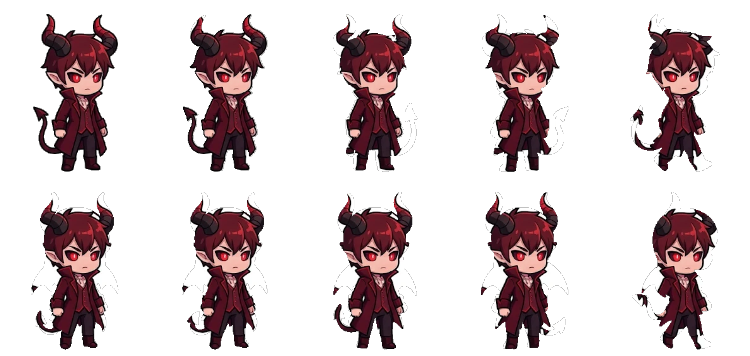
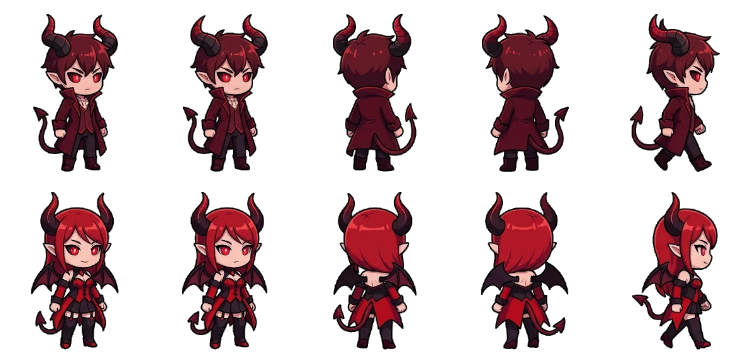
V37: sửa Quỷ Vương & Tiểu Quỷ lem màu xanh, nâng uy nghi Quỷ Vương, dọn giao diện Khu 6
- tools/bake-hell.cjs: makeLayer() đọc màu nguồn thiếu offset (x0,y0) nên MỌI ô
  bị tô bằng màu của ô (0,0) — Quỷ Vương và Tiểu Quỷ ra bóng xanh lơ của Ma Trơi,
  còn nền trắng của ô gốc biến thành thân trắng viền dày. Bake lại
  assets/img/baked/hell_npcs.png và hell_demon_sheet.png, giờ giữ đúng RGB gốc.
- js/hell.js: Quỷ Vương cao 92px (~1,7 lần nhân vật) đứng trên bệ đá hai bậc kèm
  thảm đỏ viền vàng tua rua ở x=2250; bảng tên "👹 Quỷ Vương Trần Nhân" vẽ SAU
  sprite, viền chữ chỉ 1.3px (để 3px là nét chữ 13px bị nuốt sạch, đo ra 0 pixel sáng).
- js/hell.js: vào Khu 6 tự ẩn thanh nhiệm vụ trái, dãy menu trên, minimap phải và
  chặn toast "Chạy nhanh (giữ Shift)"; cụm Joystick + nút Tương tác cảm ứng vẫn giữ
  cho Mobile, rời Khu 6 là khôi phục nguyên trạng. Nút thoát thành pill
  "✕ Rời Địa Ngục" bề rộng đo theo chữ, sát góc trên phải, tự tụt xuống dưới khi
  banner khẩn cấp chiếm dải trên. Tiêu đề "🔥 KHU 6" mờ dần sau 3 giây.
- service-worker.js: CACHE_NAME it-game-v1.83.

diff --git a/js/hell.js b/js/hell.js
@@ -65,6 +65,9 @@ const HL_IMPS = [{ lo: 500, hi: 950, x: 700, y: 548, dir: 1, spd: .85, flee: 0, 
                  { lo: 1350, hi: 1800, x: 1560, y: 548, dir: 1, spd: .85, flee: 0, loot: 2 }];
 
 const HL_FADE = 900;
+/* Bảng tên khu chỉ hiện 3 giây đầu rồi tự mờ (V37) — vào cảnh là để ĐỌC tên,
+   sau đó màn hình phải trả lại cho cảnh. */
+const HL_TITLE_HOLD = 3, HL_TITLE_FADE = .9;
 /* Chống kẹt tư thế (đúng bộ số Khu 5 V34): 0.4s hồi sau khi đứng dậy để cú
    bấm đó không rơi lại vào tư thế, 0.25s khoá vào/trả để ESC không bị nuốt. */
 const HL_EXIT_CD = .4, HL_ENTER_CD = .25, HL_JOY_R = 10;
@@ -85,8 +88,8 @@ const HL_JUDGE = [
 
 /* ---------- 2. TRẠNG THÁI ---------- */
 let HL_CUT = null;
-const HL_ST = { st: '', kx: 0, ky: 0, t0: 0, exitCd: 0, enterCd: 0,
-                aura: 0, last: 0 };
+const HL_ST = { st: '', kx: 0, ky: 0, t0: 0, t0scene: 0, exitCd: 0, enterCd: 0,
+                aura: 0, last: 0, hud: 0 };
 const HL_EMB = [];                           // tàn lửa dưới chân + tia lửa vạc
 
 /* Cờ hoàn thành là boolean của file save → PHẢI khai ở STAGE_IDS, nếu không
@@ -324,6 +327,42 @@ function hlRiftDraw(g, x, feetY, hgt, t, label) {
   g.restore();
 }
 
+/* Bệ đá + thảm đỏ của Quỷ Vương: vẽ TRƯỚC sprite trong cùng khoá sâu nên
+   vua đứng CHẾM TRÊN bệ, không phải nổi trên nền hang. Thảm loang về phía
+   người chơi (hình thang perspective) để lối đi cuối đại lộ ra "ngai". */
+function hlDaisDraw(g, x, feetY, t) {
+  g.save();
+  /* thảm đỏ: mép trên sát chân bệ, loang rộng xuống sàn trước mặt */
+  const cw0 = 74, cw1 = 128, cl = 96;
+  const q = g.createLinearGradient(0, feetY - 6, 0, feetY + cl);
+  q.addColorStop(0, 'rgba(150,22,28,.95)'); q.addColorStop(.55, 'rgba(112,14,20,.9)');
+  q.addColorStop(1, 'rgba(74,8,14,.72)');
+  g.beginPath();
+  g.moveTo(x - cw0, feetY - 4); g.lineTo(x + cw0, feetY - 4);
+  g.lineTo(x + cw1, feetY + cl); g.lineTo(x - cw1, feetY + cl);
+  g.closePath(); g.fillStyle = q; g.fill();
+  /* viền vàng + tua rua */
+  g.strokeStyle = 'rgba(226,168,52,.85)'; g.lineWidth = 2.2; g.stroke();
+  g.fillStyle = 'rgba(240,196,86,.55)';
+  for (let i = -5; i <= 5; i++) {
+    const u = (i + 5) / 10, ex = x - cw1 + (cw1 * 2) * u;
+    g.fillRect(ex - 2, feetY + cl, 4, 5);
+  }
+  /* hai bậc đá: bậc dưới rộng, bậc trên sát chân vua */
+  const st = [[112, 20], [86, 16]];
+  for (let i = 0; i < st.length; i++) {
+    const rw = st[i][0], hh = st[i][1], yy = feetY - 2 - (st.length - 1 - i) * 13;
+    const s = g.createLinearGradient(0, yy - hh, 0, yy + 6);
+    s.addColorStop(0, '#4a3038'); s.addColorStop(.5, '#2c1a20'); s.addColorStop(1, '#180d12');
+    g.fillStyle = s;
+    g.beginPath(); g.ellipse(x, yy, rw, hh * .5, 0, 0, 6.2832); g.fill();
+    /* gờ lửa hắt lên từ miệng hang */
+    g.strokeStyle = 'rgba(255,140,60,' + (.22 + .06 * Math.sin(t * 1.8 + i)).toFixed(3) + ')';
+    g.lineWidth = 1.8; g.stroke();
+  }
+  g.restore();
+}
+
 /* ---------- 9. TICK ---------- */
 function hlGhostTick(dt, now) {
   const k = Math.min(3, dt * 60), t = now / 1000;
@@ -396,10 +435,10 @@ function hlBowEnd() {
     S.missionsDone.hell_king = true;
     if (typeof addXP === 'function') addXP(30);
     if (typeof showBanner === 'function')
-      showBanner('QUỶ VƯƠNG TRẦN NHÂN PHÁN XÉT', '「' + line + '」',
+      showBanner('QUỶ VƯƠNG TRẦN NHÂN PHÁN XÉT', '“' + line + '”',
         '🩸 Buff Huyết Quỷ Vương · +30 EXP', 'red');
   } else if (typeof showBanner === 'function') {
-    showBanner('QUỶ VƯƠNG TRẦN NHÂN PHÁN XÉT', '「' + line + '」',
+    showBanner('QUỶ VƯƠNG TRẦN NHÂN PHÁN XÉT', '“' + line + '”',
       'Phần thưởng đã nhận rồi — lần sau xuống đây chơi', 'red');
   }
   if (typeof syncHUD === 'function') { try { syncHUD(); } catch (e) {} }
@@ -477,12 +516,57 @@ function hlCutDraw(now) {
   ctx.restore();
 }
 
+/* ---------- 11b. DỌN MÀN HÌNH TRONG KHU 6 ---------- */
+/* Bốn khối bị gọi tên: thanh nhiệm vụ bên trái, dãy menu trên cùng, minimap
+   bên phải (🗺 wm-badge là CON của nó nên biến mất theo), và toast "Chạy
+   nhanh (giữ Shift)" do ui.js/game.js bắn ra mỗi lần đổi tốc độ.
+   KHÔNG đụng vào joystick + nút Tương tác cảm ứng — Mobile vẫn phải đi được
+   và vẫn phải bấm được [E]. Ẩn bằng display nên mọi tham chiếu DOM khác
+   (syncHUD ghi chữ, dock blink) vẫn chạy hợp lệ, chỉ là không nhìn thấy. */
+const HL_HUD = ['quest-panel', 'dock-tr', 'minimap-box'];
+function hlHud(hide) {
+  for (let i = 0; i < HL_HUD.length; i++) {
+    const el = document.getElementById(HL_HUD[i]);
+    if (!el) continue;
+    if (hide) {
+      if (el._hlDisp === undefined) el._hlDisp = el.style.display || '';
+      if (el.style.display !== 'none') el.style.display = 'none';
+    } else if (el._hlDisp !== undefined) {
+      el.style.display = el._hlDisp;
+      el._hlDisp = undefined;
+    }
+  }
+  HL_ST.hud = hide ? 1 : 0;
+}
+/* Đồng bộ THEO CẢNH mỗi frame: vào Khu 6 bằng cổng, F5 ngay trong Khu 6, hay
+   rời đi bằng ✕/ESC/[E] đều tự ẩn — tự hiện, không cần sửa file nào khác.
+   Ghi lại display cũ nên nếu code khác từng đặt inline style cho các panel
+   này thì giá trị đó được trả đúng, không xoá trắng. */
+function hlHudSync() {
+  const inHell = S.scene === 'HELL';
+  if (inHell || HL_ST.hud) hlHud(inHell);
+}
+/* Toast chạy nhanh: chặn ĐÚNG hai câu chữ đó khi đang ở Khu 6, mọi toast
+   khác của game vẫn lên bình thường. Móc lười vì game.js nạp sau file này. */
+function hlHookToast() {
+  try {
+    if (typeof showToast !== 'function' || showToast.hlHooked) return;
+    const old = showToast;
+    showToast = function (m) {
+      if (S.scene === 'HELL' && /Chạy nhanh|Đi bộ/.test(String(m == null ? '' : m))) return;
+      return old.apply(this, arguments);
+    };
+    showToast.hlHooked = 1;
+  } catch (e) {}
+}
+
 function hlEnter() {
   S.scene = 'HELL';
   window._camX = 0;
   S.p.x = HL_SPAWN.x - 10; S.p.y = HL_SPAWN.y - 30;
   S.p.moving = false;
   HL_ST.st = ''; HL_ST.aura = 0; HL_ST.exitCd = 0; HL_ST.enterCd = HL_ENTER_CD;
+  HL_ST.t0scene = performance.now();               // đồng hồ tiêu đề 3 giây
   HL_EMB.length = 0;
   for (let i = 0; i < HL_IMPS.length; i++) { HL_IMPS[i].flee = 0; HL_IMPS[i].loot = 2; }
   hlSyncView();
@@ -527,40 +611,53 @@ function hlRelease() {
 }
 
 /* ---------- 12. ✕ RỜI KHU 6 (chỉ vẽ canvas, không thẻ HTML) ---------- */
+/* HUD đã bị ẩn ở mục 11b, nên góc trên-phải là vùng trống thật sự: nút ngồi
+   sát mép, không minimap / 🗺 / sách đè lên. Bề rộng ĐO THEO CHỮ nên nhãn
+   "✕ Rời Địa Ngục" luôn vừa khung, và hit test dùng đúng hộp này (cả PC lẫn
+   chạm) — không có hộp thứ hai dễ lệch. */
+const HL_EXIT_TXT = '✕ Rời Địa Ngục';
 function hlExitBox() {
   const r = cv.getBoundingClientRect();
-  const k = (r && r.width) ? cv.width / r.width : 1;
-  const s = 46 * Math.max(.35, Math.min(6, k));
-  /* Khu 6 GIỮ NGUYÊN HUD (khác Khu 5 Zen), nên góc phải-trên đã có minimap
-     (z-index 12) chiếm chỗ — đặt ✕ ngay trên nó, thụt xuống đúng bề cao thẻ.
-     Không có minimap (màn dọc gọn/Máy bàn phím ẩn panel) thì về đúng góc
-     như nút ✕ của Khu 5. */
-  let y = 10 * k;
+  const k = Math.max(.35, Math.min(6, (r && r.width) ? cv.width / r.width : 1));
+  const fs = Math.round(13 * k), h = Math.round(32 * k);
+  let tw = 104 * k;
   try {
-    const m = document.getElementById('minimap-box');
-    const mr = m && m.getBoundingClientRect();
-    if (m && mr && mr.width && mr.height && getComputedStyle(m).display !== 'none') {
-      const need = s + 8 * k;
-      const below = (mr.bottom - r.top) * k + 6 * k;
-      if (below + need <= cv.height) y = below;
-    }
+    ctx.save();
+    ctx.font = '700 ' + fs + 'px ' + (typeof IZF !== 'undefined' ? IZF : 'sans-serif');
+    tw = ctx.measureText(HL_EXIT_TXT).width;
+    ctx.restore();
   } catch (e) {}
-  return { x: cv.width - s - 10 * k, y: y, w: s, h: s, k: k };
+  const w = Math.round(tw + 30 * k);
+  let y = Math.round(10 * k);
+  /* Banner khẩn cấp (#emg-hud) nằm ngay dải trên, lệch phải vào đúng mép nút
+     ✕. Thà tụt nút xuống dưới banner còn hơn đè lên: đè nhau là mất luôn đường
+     RA Khu 6, còn lệch vài chục pixel chỉ là thẩm mỹ. */
+  try {
+    const e = document.getElementById('emg-hud');
+    const q = e && e.getBoundingClientRect();
+    if (q && q.width && q.height && getComputedStyle(e).display !== 'none') {
+      const bl = q.left - r.left, br = q.right - r.left, bt = q.top - r.top, bb = q.bottom - r.top;
+      const pl = (cv.width - w - 10 * k) / k, pr = (cv.width - 10 * k) / k;
+      if (br > pl && bl < pr && bb > 10 && bt < 10 + h / k) y = Math.round((bb + 6) * k);
+    }
+  } catch (err) {}
+  return { x: Math.round(cv.width - w - 10 * k), y: y, w: w, h: h, k: k, fs: fs };
 }
 function hlExitDraw() {
   if (S.scene !== 'HELL' || HL_CUT) return;
   const b = hlExitBox();
   ctx.save();
   ctx.setTransform(1, 0, 0, 1, 0, 0);
-  ctx.globalAlpha = .6;
-  if (typeof izb === 'function') izb(b.x, b.y, b.w, b.h, b.w * .28, 'rgba(16,6,4,.72)');
-  else { ctx.fillStyle = 'rgba(16,6,4,.72)'; ctx.fillRect(b.x, b.y, b.w, b.h); }
-  ctx.strokeStyle = 'rgba(255,150,70,.5)'; ctx.lineWidth = Math.max(1, b.k);
-  ctx.beginPath(); ctx.arc(b.x + b.w / 2, b.y + b.h / 2, b.w * .46, 0, Math.PI * 2); ctx.stroke();
-  ctx.fillStyle = 'rgba(255,232,200,.94)';
-  ctx.font = '700 ' + Math.round(b.h * .42) + 'px ' + (typeof IZF !== 'undefined' ? IZF : 'sans-serif');
+  ctx.globalAlpha = .88;
+  if (typeof izb === 'function') izb(b.x, b.y, b.w, b.h, b.h * .45, 'rgba(22,6,4,.84)');
+  else { ctx.fillStyle = 'rgba(22,6,4,.84)'; ctx.fillRect(b.x, b.y, b.w, b.h); }
+  ctx.strokeStyle = 'rgba(255,150,70,.62)'; ctx.lineWidth = Math.max(1, b.k);
+  if (typeof rr === 'function') { rr(ctx, b.x, b.y, b.w, b.h, b.h * .45); ctx.stroke(); }
+  else ctx.strokeRect(b.x, b.y, b.w, b.h);
+  ctx.fillStyle = 'rgba(255,238,212,.97)';
+  ctx.font = '700 ' + b.fs + 'px ' + (typeof IZF !== 'undefined' ? IZF : 'sans-serif');
   ctx.textAlign = 'center'; ctx.textBaseline = 'middle';
-  ctx.fillText('✕', b.x + b.w / 2, b.y + b.h / 2 + b.h * .02);
+  ctx.fillText(HL_EXIT_TXT, b.x + b.w / 2, b.y + b.h / 2 + b.h * .02);
   ctx.restore();
 }
 
@@ -614,8 +711,19 @@ function hlScene() {
       hlRiftDraw(ctx, HL_POT.x, HL_POT.y, 70, t, '🔥 VẠC LỬA');
   } });
   if (vis(HL_KING.x)) list.push({ k: HL_KING.pk, f: () => {
-    if (!hlNpc(Math.floor(t * 1.1) % 3 ? 'king_a' : 'king_b', HL_KING.x, HL_KING.y + 2, 100, false, 1))
-      hlRiftDraw(ctx, HL_KING.x, HL_KING.y, 90, t, '👹 QUỶ VƯƠNG');
+    /* 92px = cao gấp ~1.7 lần nhân vật (SK_GEO.BODY 58px trên màn hình) —
+       vua phải LOOK down lên người chơi, đúng yêu cầu "uy nghi". */
+    const KH = 92;
+    hlDaisDraw(ctx, HL_KING.x, HL_KING.y + 2, t);
+    if (!hlNpc(Math.floor(t * 1.1) % 3 ? 'king_a' : 'king_b', HL_KING.x, HL_KING.y + 2, KH, false, 1))
+      hlRiftDraw(ctx, HL_KING.x, HL_KING.y, KH - 2, t, '👹 QUỶ VƯƠNG');
+    /* Bảng tên vẽ SAU sprite nên luôn đọc được trên đầu, kể cả khi vua vừa
+       vung tay (king_b). olw PHẢI mỏng (1.3): hvCap viền đen BÊN TRONG nét
+       chữ, 12px mà để 3px là nét chữ bị nuốt sạch — đo ra 0 pixel sáng. */
+    if (typeof hvCap === 'function')
+      hvCap(ctx, HL_KING.x, HL_KING.y + 2 - KH - 32, '👹 Quỷ Vương Trần Nhân',
+        { font: 'bold 13px ', h: 26, r: 9, pad: 20, bg: 'rgba(40,7,9,.95)',
+          rim: 'rgba(226,168,52,.9)', lw: 1.8, fg: '#ffe7b4', blur: 14, olw: 1.3 });
   } });
   for (let i = 0; i < HL_IMPS.length; i++) {
     const im = HL_IMPS[i];
@@ -661,9 +769,18 @@ function hlScene() {
 
   ctx.globalAlpha = .85; ctx.drawImage(lay, 0, 0); ctx.globalAlpha = 1;
 
-  if (typeof hvCap === 'function')
-    hvCap(ctx, HL_VIEW_W / 2, 22, '🔥 KHU 6 · ĐỊA NGỤC TRẦN NHÂN',
-      { font: 'bold 13px ', h: 24, r: 12, blur: 16, olw: 4 });
+  /* Tiêu đề khu: đầy đủ 3 giây đầu rồi mờ dần 0.9s, hết là KHÔNG vẽ nữa
+     (góc trên giữa trả lại cho cảnh). Vào lại Khu 6 thì đồng hồ chạy lại. */
+  if (typeof hvCap === 'function') {
+    const age = (performance.now() - (HL_ST.t0scene || performance.now())) / 1000;
+    const ta = age <= HL_TITLE_HOLD ? 1 : Math.max(0, 1 - (age - HL_TITLE_HOLD) / HL_TITLE_FADE);
+    if (ta > .01) {
+      ctx.save(); ctx.globalAlpha = ta;
+      hvCap(ctx, HL_VIEW_W / 2, 22, '🔥 KHU 6 · ĐỊA NGỤC TRẦN NHÂN',
+        { font: 'bold 13px ', h: 24, r: 12, blur: 16, olw: 4 });
+      ctx.restore();
+    }
+  }
   /* Nhãn [E] và thanh cuộn đều theo MÀN HÌNH. */
   if (targetAct && typeof hvLabel === 'function') hvLabel(targetAct.txt || '');
   else if (targetAct) {
@@ -701,6 +818,8 @@ function hlUpdate(dt, now) {
      mang toạ độ thế giới Khu 6 sang Khu 1 vẽ lung tung, nên xoá sạch. */
   if (S.scene !== 'HELL' && S.scene !== 'STREET' && HL_EMB.length) HL_EMB.length = 0;
   hlSyncView();
+  hlHookToast();
+  hlHudSync();
   if (S.scene === 'HELL' || S.scene === 'STREET') hlEmbStep(dt);
   if (S.scene === 'HELL') {
     hlGhostTick(dt, now); hlImpTick(dt); hlAuraTick(dt); hlBowTick(now);
@@ -875,5 +994,5 @@ window.HELL = {
   imps: HL_IMPS, ghosts: HL_GHOSTS, st: HL_ST, cut: () => HL_CUT,
   enter: hlEnter, street: hlStreet, setView: hlSetView, prompt: hlPrompt,
   release: hlRelease, startle: hlStartle, absorb: hlAbsorb, audience: hlAudience,
-  bowEnd: hlBowEnd, wx: hlWx
+  bowEnd: hlBowEnd, wx: hlWx, hudSync: hlHudSync, exitBox: hlExitBox,
 };

diff --git a/service-worker.js b/service-worker.js
@@ -12,7 +12,7 @@
 
    Thêm tài nguyên mới? Cập nhật cả ASSETS.js và PRECACHE bên dưới.
    ============================================================ */
-const CACHE_NAME = 'it-game-v1.82';
+const CACHE_NAME = 'it-game-v1.83';
 
 const PRECACHE = [
   // --- vỏ ứng dụng ---
